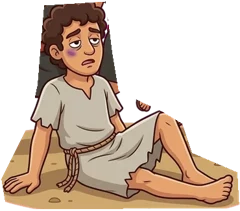
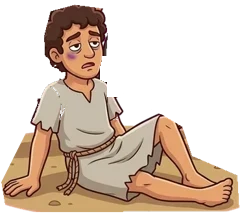
Night Run playtest pass: fix dead-end card loop, turn-around button, hints, masked robbers, robber variety, painted walls, pillar, Easy tuning

diff --git a/public/night-run/index.html b/public/night-run/index.html
@@ -23,6 +23,8 @@ html,body{margin:0;height:100%;overflow:hidden;font-family:var(--sans);color:var
 .b.red{background:linear-gradient(180deg,#ffc2d0,#ff5a7a 55%,#e03058);border-color:#ffe0e8;color:#3a0814;box-shadow:0 5px 0 #b01c40,inset 0 2px 0 rgba(255,255,255,.7)}
 .b:active{transform:translateY(2px)}.b.hide{visibility:hidden}
 #back{position:absolute;bottom:118px;left:50%;transform:translateX(-50%);padding:12px 22px;border-radius:999px;border:1.5px solid var(--line);background:rgba(42,13,88,.85);color:var(--gold);font-weight:700;font-size:17px;display:none}
+#back.pulse{animation:pu 1s infinite;background:linear-gradient(180deg,#fff6b8,#ffcc33 46%,#ff9f1a);color:#2a1c08}@keyframes hint{50%{box-shadow:0 0 0 6px #fff6e8,0 0 30px 10px rgba(255,204,51,.9)}}.b.hint{animation:hint .9s infinite}
+@keyframes pu{50%{transform:translateX(-50%) scale(1.08)}}
 #flash{position:absolute;inset:0;background:var(--cedar);opacity:0;pointer-events:none}
 #danger{position:absolute;inset:0;pointer-events:none;opacity:0;transition:opacity .4s;background:radial-gradient(ellipse at 50% 50%,transparent 45%,rgba(255,90,122,.8) 100%)}
 .card{position:absolute;left:16px;right:16px;top:16%;padding:20px 18px 22px;text-align:center;display:none;border-radius:22px;border:2px solid rgba(255,204,51,.7);
@@ -63,22 +65,23 @@ const SECC=[[255,204,51],[255,90,122],[200,107,255],[61,204,122]];
 function sec(x,y){if(y>=6&&!(x===7&&y===6))return 0;if(x===7&&y===6)return 1;if(y>=4)return x>=5?1:0;if(y===3)return x>=5?2:3;if(y<=2&&x>=5)return 2;return 3;}
 const LAMPS=[{x:7,y:4},{x:3,y:2}];
 const SPARK0=[[3,7],[5,7],[6,7],[7,5],[6,5],[5,5],[6,3],[5,2],[6,1],[3,3],[2,3],[3,1],[2,1],[2,5],[3,5],[1,5]];
-const AMB=[{t:'3,7',x:5,y:7},{t:'7,5',x:7,y:3},{t:'7,3',x:5,y:3},{t:'3,3',x:3,y:1}];
-const RSPAWN=[{x:5,y:5}];
+const AMBO=[[{t:'2,7',x:4,y:7},{t:'3,7',x:5,y:7},{t:'4,7',x:6,y:7}],[{t:'7,5',x:7,y:3}],[{t:'7,3',x:5,y:3}],[{t:'3,3',x:3,y:1}]];
+let AMB=[];const pick=a=>a[Math.floor(Math.random()*a.length)];
+const HOMES=[{x:5,y:5},{x:5,y:1}];let RSPAWN=[];
 let S,AC=null;
 function snd(f,d,type,vol){try{AC=AC||new (window.AudioContext||window.webkitAudioContext)();const o=AC.createOscillator(),gn=AC.createGain();o.type=type||'square';o.frequency.value=f;gn.gain.value=vol||.05;gn.gain.exponentialRampToValueAtTime(.0001,AC.currentTime+d);o.connect(gn);gn.connect(AC.destination);o.start();o.stop(AC.currentTime+d);}catch(e){}}
-function reset(full){const cp=full?null:S.cp;const keep=full?null:S;
+function reset(full){if(full){AMB=AMBO.map(pick);RSPAWN=[pick(HOMES)];}const cp=full?null:S.cp;const keep=full?null:S;
  S={x:START.x,y:START.y,dir:1,px:START.x+.5,py:START.y+.5,ang:0,hist:[],hearts:3,tw:null,
  robbers:RSPAWN.map(p=>({sx:p.x,sy:p.y,x:p.x,y:p.y,px:p.x+.5,py:p.y+.5,gone:0})),
  paused:true,inv:0,shake:0,visited:new Set(),sparks:[],t:0,rt:0,done:false,
  amb:new Set(),sp:new Set(SPARK0.map(a=>a+'')),lit:new Set(),cp:null,taps:0,gems:0,pops:0,hitsTaken:0,rects:[]};
  if(keep){S.amb=keep.amb;S.sp=keep.sp;S.lit=keep.lit;S.cp=cp;S.taps=keep.taps;S.gems=keep.gems;S.pops=keep.pops;S.hitsTaken=keep.hitsTaken;S.visited=keep.visited;
   if(cp){S.x=cp.x;S.y=cp.y;S.px=cp.x+.5;S.py=cp.y+.5;S.dir=cp.dir;S.ang=cp.dir*Math.PI/2-Math.PI/2;}}
- S.visited.add(S.x+','+S.y);updHUD();updBtns();}
+ S.lastArr=S.x+','+S.y;S.visited.add(S.x+','+S.y);updHUD();updBtns();}
 function trapC(i,t){return(t+i*1.6)%3.2;}
 function trapState(i,t){const c=trapC(i,t);return c<1.7?'up':c<2.5?'warn':'down';}
 function trapH(i,t){const c=trapC(i,t);if(c<2.5)return 1;const k=(c-2.5)/.7;return k<.2?1-k/.2:k>.8?(k-.8)/.2:0;}
-function dashGreen(i){const c=trapC(i,S.t);return c<1.0||c>3.05;}
+function dashGreen(i){const c=trapC(i,S.t);return c<1.3||c>3.0;}
 function trapAt(x,y){return TRAPS.findIndex(t=>t.x===x&&t.y===y);}
 function updHUD(){$('hearts').textContent='❤'.repeat(S.hearts)+'🤍'.repeat(3-S.hearts);$('gems').textContent=S.gems+'/16';if(S.gems===16&&!S.all16){S.all16=1;toast('🏆 All 16!');burst(RW/2,RH*.4,60);[784,988,1175].forEach((f,i)=>setTimeout(()=>snd(f,.25,'sine',.06),i*120));}}
 function rel(r){return(S.dir+r+4)%4;}
@@ -86,21 +89,21 @@ function canGo(r){const d=rel(r);return open(S.x+DX[d],S.y+DY[d]);}
 function fwdTrap(){const d=S.dir;return trapAt(S.x+DX[d],S.y+DY[d]);}
 function updBtns(){const busy=S.tw||S.paused;
  $('bl').classList.toggle('hide',busy||!canGo(-1));$('bf').classList.toggle('hide',busy||!canGo(0));$('br').classList.toggle('hide',busy||!canGo(1));
- const dead=!busy&&!canGo(-1)&&!canGo(0)&&!canGo(1);$('back').style.display=busy?'none':(dead?'block':'none');}
+ const dead=!busy&&!canGo(-1)&&!canGo(0)&&!canGo(1);$('back').style.display=busy?'none':'block';$('back').classList.toggle('pulse',dead);}
 function bump(){const b=S.hist.pop();if(b){S.tw={k:0,a0:S.ang,a1:S.ang,x0:S.px,y0:S.py,x1:b.x+.5,y1:b.y+.5,dur:.25,nob:1};S.x=b.x;S.y=b.y;}}
 function move(r){if(S.tw||S.paused)return;
  if(r===2){S.tw={k:0,a0:S.ang,a1:S.ang+Math.PI,x0:S.px,y0:S.py,x1:S.px,y1:S.py,dur:.35};S.dir=rel(2);updBtns();return;}
  if(!canGo(r))return;const d=rel(r);let nx=S.x+DX[d],ny=S.y+DY[d];const ti=trapAt(nx,ny);
  if(ti>=0){ // must DASH on green, straight through
-  if(r!==0){S.tw={k:0,a0:S.ang,a1:S.ang+r*Math.PI/2,x0:S.px,y0:S.py,x1:S.px,y1:S.py,dur:.3};S.dir=d;updBtns();return;}if(!dashGreen(ti)){hit('Wait for green!');return;}
+  if(r!==0){S.tw={k:0,a0:S.ang,a1:S.ang+r*Math.PI/2,x0:S.px,y0:S.py,x1:S.px,y1:S.py,dur:.3};S.dir=d;updBtns();return;}if(!dashGreen(ti)){toast('Wait for green…');snd(160,.12,'square',.05);S.shake=.15;if(navigator.vibrate)navigator.vibrate(40);return;}
   nx+=DX[d];ny+=DY[d];S.hist.push({x:S.x,y:S.y});S.x=nx;S.y=ny;S.tw={k:0,a0:S.ang,a1:S.ang,x0:S.px,y0:S.py,x1:nx+.5,y1:ny+.5,dur:.45};
   S.visited.add((nx-DX[d])+','+(ny-DY[d]));S.visited.add(nx+','+ny);snd(660,.15,'triangle',.08);updBtns();return;}
  S.hist.push({x:S.x,y:S.y});S.x=nx;S.y=ny;S.dir=d;
  S.tw={k:0,a0:S.ang,a1:S.ang+r*Math.PI/2,x0:S.px,y0:S.py,x1:nx+.5,y1:ny+.5,dur:r?.42:.3};
  S.visited.add(nx+','+ny);snd(140,.06,'triangle',.08);updBtns();}
 function burst(x,y,n,col){for(let i=0;i<n;i++)S.sparks.push({x,y,vx:(Math.random()-.5)*170,vy:-Math.random()*150,l:1,c:col||'255,230,120'});}
-function arrive(){const c=MAP[S.y][S.x],k=S.x+','+S.y;
- AMB.forEach((a,i)=>{if(a.t===k&&!S.amb.has(i)){S.amb.add(i);S.robbers.push({sx:a.x,sy:a.y,x:a.x,y:a.y,px:a.x+.5,py:a.y+.5,gone:0,hold:3,amb:1});snd(200,.15,'square',.07);toast('A robber! Tap it!');}});
+function arrive(){const k=S.x+','+S.y;S.seen=S.seen||new Set();if(!S.seen.has(k)){S.seen.add(k);S.idle=0;}if(S.lastArr===k){checkHit();return;}S.lastArr=k;const c=MAP[S.y][S.x];
+ AMB.forEach((a,i)=>{if(a.t===k&&!S.amb.has(i)){S.amb.add(i);S.robbers.push({sx:a.x,sy:a.y,x:a.x,y:a.y,px:a.x+.5,py:a.y+.5,gone:0,hold:3.5+Math.random()*1.5,amb:1});snd(200,.15,'square',.07);toast('A robber! Tap it!');}});
  if(S.sp.has(k)){S.sp.delete(k);S.gems++;updHUD();snd(880,.1,'sine',.06);}
  if(c==='P'||c==='L'){S.paused=true;$('laneT').textContent=c==='P'?'The priest passed by.':'The Levite passed by.';
   $('laneP').textContent=c==='P'?'Luke 10:31':'Luke 10:32';$('cLane').style.display='block';updBtns();}
@@ -112,30 +115,37 @@ function hit(why){if(S.inv>0||S.paused||Q.has('god'))return;S.hearts--;S.hitsTak
  S.robbers.forEach(r=>{if(Math.abs(r.x-S.x)+Math.abs(r.y-S.y)<2){r.x=r.sx;r.y=r.sy;r.px=r.x+.5;r.py=r.y+.5;r.gone=3;}});
  if(S.hearts<=0){S.paused=true;S.tw=null;$('cFail').style.display='block';updBtns();return;}
  if(why!=='Wait for green!')bump();}
-function checkHit(){for(const r of S.robbers)if(!r.gone&&r.x===S.x&&r.y===S.y)return hit('Robber! −1 ❤');}
+function checkHit(){for(const r of S.robbers)if(!r.gone&&r.x===S.x&&r.y===S.y){
+ const front=r.ox===S.x+DX[S.dir]&&r.oy===S.y+DY[S.dir];
+ if(!front&&S.inv<=0){S.inv=1.2;r.x=r.sx;r.y=r.sy;r.px=r.x+.5;r.py=r.y+.5;r.gone=r.amb?1e9:4;if(S.gems>0){S.gems--;updHUD();}toast('A robber grabbed a gem!');snd(200,.2,'sawtooth',.06);return;}
+ return hit('Robber! −1 ❤');}}
 function toast(m){const t=$('toast');t.textContent=m;t.style.opacity=1;clearTimeout(t._h);t._h=setTimeout(()=>t.style.opacity=0,1100);}
 function bfs(from){const dist={},q=[from];dist[from.x+','+from.y]=0;while(q.length){const c=q.shift();for(let d=0;d<4;d++){const nx=c.x+DX[d],ny=c.y+DY[d],k=nx+','+ny;const ch=open(nx,ny)?MAP[ny][nx]:'#';if(ch!=='#'&&!'PLH'.includes(ch)&&!(k in dist)){dist[k]=dist[c.x+','+c.y]+1;q.push({x:nx,y:ny});}}}return dist;}
 function robberTick(){const dist=bfs({x:S.x,y:S.y});for(const r of S.robbers){if(r.gone)continue;if(r.hold>0)continue;
  const cur=dist[r.x+','+r.y];if(cur===undefined||cur>3)continue;
  let best=null;for(let d=0;d<4;d++){const nx=r.x+DX[d],ny=r.y+DY[d],k=nx+','+ny;if(k in dist&&dist[k]<cur&&trapAt(nx,ny)<0&&!S.robbers.some(o=>o!==r&&!o.gone&&o.x===nx&&o.y===ny))best={x:nx,y:ny};}
- if(best){r.x=best.x;r.y=best.y;}}checkHit();}
+ if(best){r.ox=r.x;r.oy=r.y;r.x=best.x;r.y=best.y;}}checkHit();}
 function nearest(){const dist=bfs({x:S.x,y:S.y});let m=99;S.robbers.forEach(r=>{if(!r.gone){const v=dist[r.x+','+r.y];if(v!==undefined)m=Math.min(m,v);}});return m;}
-function wallCol(u,v,side,dist,s){const B=SECC[s];const L=Math.min(1,1.7/(dist+.4))*(side?.82:1);
- if(v<.1||v>.9){const st=((u*6+v*3)|0)%2;return st?[B[0]*L,B[1]*L,B[2]*L]:[255*L,246*L,232*L];}
- const row=Math.floor(v*5),off=row%2?.5:0,bu=((u*2+off)%1),mortar=(v*5%1)<.07||bu<.04;
- if(mortar)return[30*L,10*L,60*L];const n=(row*37+Math.floor(u*2+off)*53)%24;
- return[(70+n+B[0]*.18)*L,(28+n*.4+B[1]*.12)*L,(130+n+B[2]*.15)*L];}
+function wallCol(u,v,side,dist,s,cx,cy){const B=SECC[s];const L=Math.min(1,1.8/(dist+.4))*(side?.85:1);
+ if(v<.08){const st=((u*6)|0)%2;return st?[B[0]*L,B[1]*L,B[2]*L]:[255*L,246*L,232*L];}
+ const t=TEX[((cx*7+cy*3)%5===0)?1:0]||TEX[0];if(!t)return[60*L,25*L,120*L];
+ const tv=((v-.08)/.92*2)%1,tu=(u*2)%1;const i=(((Math.min(.999,tv)*128)|0)*128+((tu*128)|0))*4;const k=.18;
+ return[(t[i]*(1-k)+B[0]*k)*L*1.15,(t[i+1]*(1-k)+B[1]*k)*L*1.15,(t[i+2]*(1-k)+B[2]*k)*L*1.15];}
 const IMG=n=>{const i=new Image();i.src='assets/'+n;return i;};
+const TEX=[];['wall-bush.webp','wall-cottage.webp'].forEach((n,j)=>{const im=IMG(n);im.onload=()=>{const c=document.createElement('canvas');c.width=c.height=128;const x=c.getContext('2d');x.drawImage(im,0,0,128,128);TEX[j]=x.getImageData(0,0,128,128).data;};});
 function mk(w,h,f){const c=document.createElement('canvas');c.width=w;c.height=h;f(c.getContext('2d'));return c;}
-const SPR={robber:IMG('robber.webp'),man:IMG('hurt-man.webp'),gem:IMG('gem.webp'),lampOff:IMG('lamp-idle.webp'),lampOn:IMG('lamp-lit.webp'),
- block:mk(64,192,x=>{const gr=x.createLinearGradient(0,0,64,0);gr.addColorStop(0,'#3a1480');gr.addColorStop(.5,'#c86bff');gr.addColorStop(1,'#3a1480');x.fillStyle=gr;x.fillRect(6,0,52,192);
-  x.fillStyle='rgba(255,246,232,.85)';for(let i=0;i<8;i++){x.beginPath();x.moveTo(6,i*24+4);x.lineTo(58,i*24+16);x.lineTo(58,i*24+24);x.lineTo(6,i*24+12);x.fill();}
-  x.fillStyle='#ffcc33';x.fillRect(0,172,64,20);x.fillStyle='#e09412';x.fillRect(0,186,64,6);})};
+const SPR={robber:IMG('robber-masked.webp'),man:IMG('hurt-man.webp'),gem:IMG('gem.webp'),lampOff:IMG('lamp-idle.webp'),lampOn:IMG('lamp-lit.webp'),
+ block:mk(64,192,x=>{const gr=x.createLinearGradient(0,0,64,0);gr.addColorStop(0,'#2a0d58');gr.addColorStop(.35,'#8a5ad0');gr.addColorStop(.55,'#c8a0ff');gr.addColorStop(1,'#2a0d58');
+  x.fillStyle=gr;x.fillRect(10,0,44,170);x.fillStyle='rgba(42,13,88,.45)';for(let i=0;i<4;i++)x.fillRect(16+i*10,0,3,170);
+  x.strokeStyle='rgba(30,8,60,.8)';x.lineWidth=2;x.beginPath();x.moveTo(30,40);x.lineTo(36,60);x.lineTo(32,78);x.moveTo(44,110);x.lineTo(40,128);x.stroke();
+  const gg=x.createLinearGradient(0,0,64,0);gg.addColorStop(0,'#e09412');gg.addColorStop(.5,'#fff6b8');gg.addColorStop(1,'#e09412');x.fillStyle=gg;
+  x.beginPath();x.moveTo(6,166);x.lineTo(58,166);x.quadraticCurveTo(64,178,56,190);x.lineTo(8,190);x.quadraticCurveTo(0,178,6,166);x.fill();
+  x.fillStyle='rgba(255,90,122,.9)';x.fillRect(10,176,44,4);for(let i=0;i<5;i++){x.fillStyle='#fff6e8';x.beginPath();x.arc(12+i*10,185,2,0,7);x.fill();}})};
 function render(dt){const t=S.t;const mv=S.tw&&!S.tw.nob&&(S.tw.x1!==S.tw.x0||S.tw.y1!==S.tw.y0);const bob=mv?Math.sin(S.tw.k*Math.PI*2)*6:0;
  const sh=S.shake>0?(Math.random()-.5)*14*S.shake/.4:0,horizon=RH/2+bob;
  let gr=g.createLinearGradient(0,0,0,horizon);gr.addColorStop(0,'#2a0d58');gr.addColorStop(.55,'#c86bff');gr.addColorStop(1,'#ff5a7a');g.fillStyle=gr;g.fillRect(0,0,RW,horizon);
  g.fillStyle='#fff8';for(let i=0;i<25;i++){const sx=((i*97+S.ang*60)%RW+RW)%RW;g.fillRect(sx,(i*53)%(horizon*.7|0),1,1);}
- gr=g.createLinearGradient(0,horizon,0,RH);gr.addColorStop(0,'#7a3a2a');gr.addColorStop(.25,'#e09412');gr.addColorStop(1,'#ffcc33');g.fillStyle=gr;g.fillRect(0,horizon,RW,RH-horizon);
+ gr=g.createLinearGradient(0,horizon,0,RH);gr.addColorStop(0,'#1a0840');gr.addColorStop(1,'#5a2a9a');g.fillStyle=gr;g.fillRect(0,horizon,RW,RH-horizon);gr=g.createLinearGradient(0,horizon,0,RH);gr.addColorStop(0,'#a0600a');gr.addColorStop(.3,'#ff9f1a');gr.addColorStop(1,'#ffdc5a');g.fillStyle=gr;g.beginPath();g.moveTo(RW/2-3,horizon);g.lineTo(RW/2+3,horizon);g.lineTo(RW*.8,RH);g.lineTo(RW*.2,RH);g.fill();g.strokeStyle='rgba(255,246,184,.6)';g.lineWidth=2;g.beginPath();g.moveTo(RW/2,horizon);g.lineTo(RW*.24,RH);g.moveTo(RW/2,horizon);g.lineTo(RW*.76,RH);g.stroke();
  const fov=.66,dx=Math.cos(S.ang),dy=Math.sin(S.ang),plx=-dy*fov,ply=dx*fov,Z=new Float32Array(RW);
  const img=g.getImageData(0,0,RW,RH),D=img.data;
  for(let col=0;col<RW;col++){const cam=2*col/RW-1,rx=dx+plx*cam,ry=dy+ply*cam;let mx=Math.floor(S.px),my=Math.floor(S.py),pxc=mx,pyc=my;
@@ -144,14 +154,14 @@ function render(dt){const t=S.t;const mv=S.tw&&!S.tw.nob&&(S.tw.x1!==S.tw.x0||S.
   for(let n=0;n<40;n++){pxc=mx;pyc=my;if(sdx<sdy){sdx+=ddx;mx+=sx;side=0}else{sdy+=ddy;my+=sy;side=1}if(!open(mx,my))break;}
   const pd=side?sdy-ddy:sdx-ddx;Z[col]=pd;const lh=RH/pd*.9,top=horizon-lh/2;let u=side?S.px+pd*rx:S.py+pd*ry;u-=Math.floor(u);
   const s=sec(pxc,pyc),y0=Math.max(0,top|0),y1=Math.min(RH,(top+lh)|0);
-  for(let y=y0;y<y1;y++){const v=(y-top)/lh,c=wallCol(u,v,side,pd,s),i=(y*RW+col)*4;D[i]=c[0];D[i+1]=c[1];D[i+2]=c[2];}}
+  for(let y=y0;y<y1;y++){const v=(y-top)/lh,c=wallCol(u,v,side,pd,s,mx,my),i=(y*RW+col)*4;D[i]=c[0];D[i+1]=c[1];D[i+2]=c[2];}}
  g.putImageData(img,0,0);
  gr=g.createRadialGradient(RW/2,RH*.62,20,RW/2,RH*.55,RH*.75);gr.addColorStop(0,'rgba(255,204,51,.14)');gr.addColorStop(.5,'rgba(0,0,0,0)');gr.addColorStop(1,'rgba(18,6,46,.6)');g.fillStyle=gr;g.fillRect(0,0,RW,RH);
- const sp=[];S.robbers.forEach((r,i)=>{if(!r.gone)sp.push({x:r.px,y:r.py,img:SPR.robber,s:.55,lift:Math.abs(Math.sin(t*6+i))*.06,kind:'robber',ref:r});});
+ const sp=[];S.robbers.forEach((r,i)=>{if(!r.gone)sp.push({x:r.px,y:r.py,img:SPR.robber,s:.72,lift:Math.abs(Math.sin(t*6+i))*.06,kind:'robber',ref:r});});
  sp.push({x:HURT.x+.5,y:HURT.y+.5,img:SPR.man,s:.55,lift:0});
  S.sp.forEach(k=>{const[a,b]=k.split(',').map(Number);sp.push({x:a+.5,y:b+.5,img:SPR.gem,s:.2,lift:.3+Math.sin(t*3+a)*.05,kind:'gem',ref:k});});
  LAMPS.forEach((l,i)=>{const on=S.lit.has(i);sp.push({x:l.x+.75,y:l.y+.25,img:on?SPR.lampOn:SPR.lampOff,s:1,lift:0,kind:on?null:'lamp',ref:i});});
- TRAPS.forEach((tp,i)=>{const st=trapState(i,t),h=trapH(i,t);sp.push({x:tp.x+.5+(st==='warn'?Math.sin(t*60)*.03:0),y:tp.y+.5,img:SPR.block,s:3,lift:h*.8,warn:st==='warn'});});
+ TRAPS.forEach((tp,i)=>{const st=trapState(i,t),h=trapH(i,t);sp.push({x:tp.x+.5+(st==='warn'?Math.sin(t*60)*.03:0),y:tp.y+.5,img:SPR.block,s:3.2,lift:h*.8,warn:st==='warn'});});
  sp.forEach(s=>s.d=(s.x-S.px)**2+(s.y-S.py)**2);sp.sort((a,b)=>b.d-a.d);const inv=1/(plx*dy-dx*ply);S.rects=[];
  for(const s of sp){const rx=s.x-S.px,ry=s.y-S.py,tx=inv*(dy*rx-dx*ry),ty=inv*(-ply*rx+plx*ry);if(ty<.15)continue;
   const scx=RW/2*(1+tx/ty),full=RH/ty*.9,hh=full*s.s,ww=hh*s.img.width/s.img.height,top=horizon+full*.5-hh-full*s.lift;
@@ -173,7 +183,10 @@ function render(dt){const t=S.t;const mv=S.tw&&!S.tw.nob&&(S.tw.x1!==S.tw.x0||S.
  else if(bf.classList.contains('green')||bf.classList.contains('red')){bf.innerHTML='⬆<small>FORWARD</small>';bf.classList.remove('green','red');}}
 let last=performance.now();
 function frame(now){const dt=Math.min(.05,(now-last)/1000);last=now;step(dt);render(dt);requestAnimationFrame(frame);}
-function step(dt){S.t+=dt;if(S.inv>0)S.inv-=dt;if(S.shake>0)S.shake-=dt;
+function hintDir(){const DXa=DX,DYa=DY,q=[[HURT.x,HURT.y]],d={[HURT.x+','+HURT.y]:0};while(q.length){const[x,y]=q.shift();for(let k=0;k<4;k++){const nx=x+DXa[k],ny=y+DYa[k],kk=nx+','+ny;if(open(nx,ny)&&!'PL'.includes(MAP[ny][nx])&&!(kk in d)){d[kk]=d[x+','+y]+1;q.push([nx,ny])}}}
+ let best=-1,bd=1e9;for(let k=0;k<4;k++){const kk=(S.x+DX[k])+','+(S.y+DY[k]);if(kk in d&&d[kk]<bd){bd=d[kk];best=k}}return best<0?null:((best-S.dir)+4)%4;}
+function step(dt){S.t+=dt;if(!S.paused&&!S.tw)S.idle=(S.idle||0)+dt;
+ const hd=(S.idle>8&&!S.paused&&!S.tw)?hintDir():null;['bf','br','back','bl'].forEach((id,r)=>$(id).classList.toggle('hint',hd===r));if(S.inv>0)S.inv-=dt;if(S.shake>0)S.shake-=dt;
  if(S.tw){const w=S.tw;w.k=Math.min(1,w.k+dt/w.dur);const e=w.k<.5?2*w.k*w.k:1-((-2*w.k+2)**2)/2;S.ang=w.a0+(w.a1-w.a0)*e;S.px=w.x0+(w.x1-w.x0)*e;S.py=w.y0+(w.y1-w.y0)*e;if(w.k>=1){S.tw=null;updBtns();arrive();}}
  S.robbers.forEach(r=>{if(r.hold>0&&!S.paused)r.hold-=dt;if(r.gone>0){r.gone=Math.max(0,r.gone-dt);if(!r.gone){r.x=r.sx;r.y=r.sy;r.px=r.x+.5;r.py=r.y+.5;}}r.px+=(r.x+.5-r.px)*Math.min(1,dt*5);r.py+=(r.y+.5-r.py)*Math.min(1,dt*5);});
  if(!S.paused){S.rt+=dt;if(S.rt>2.6){S.rt=0;robberTick();}
